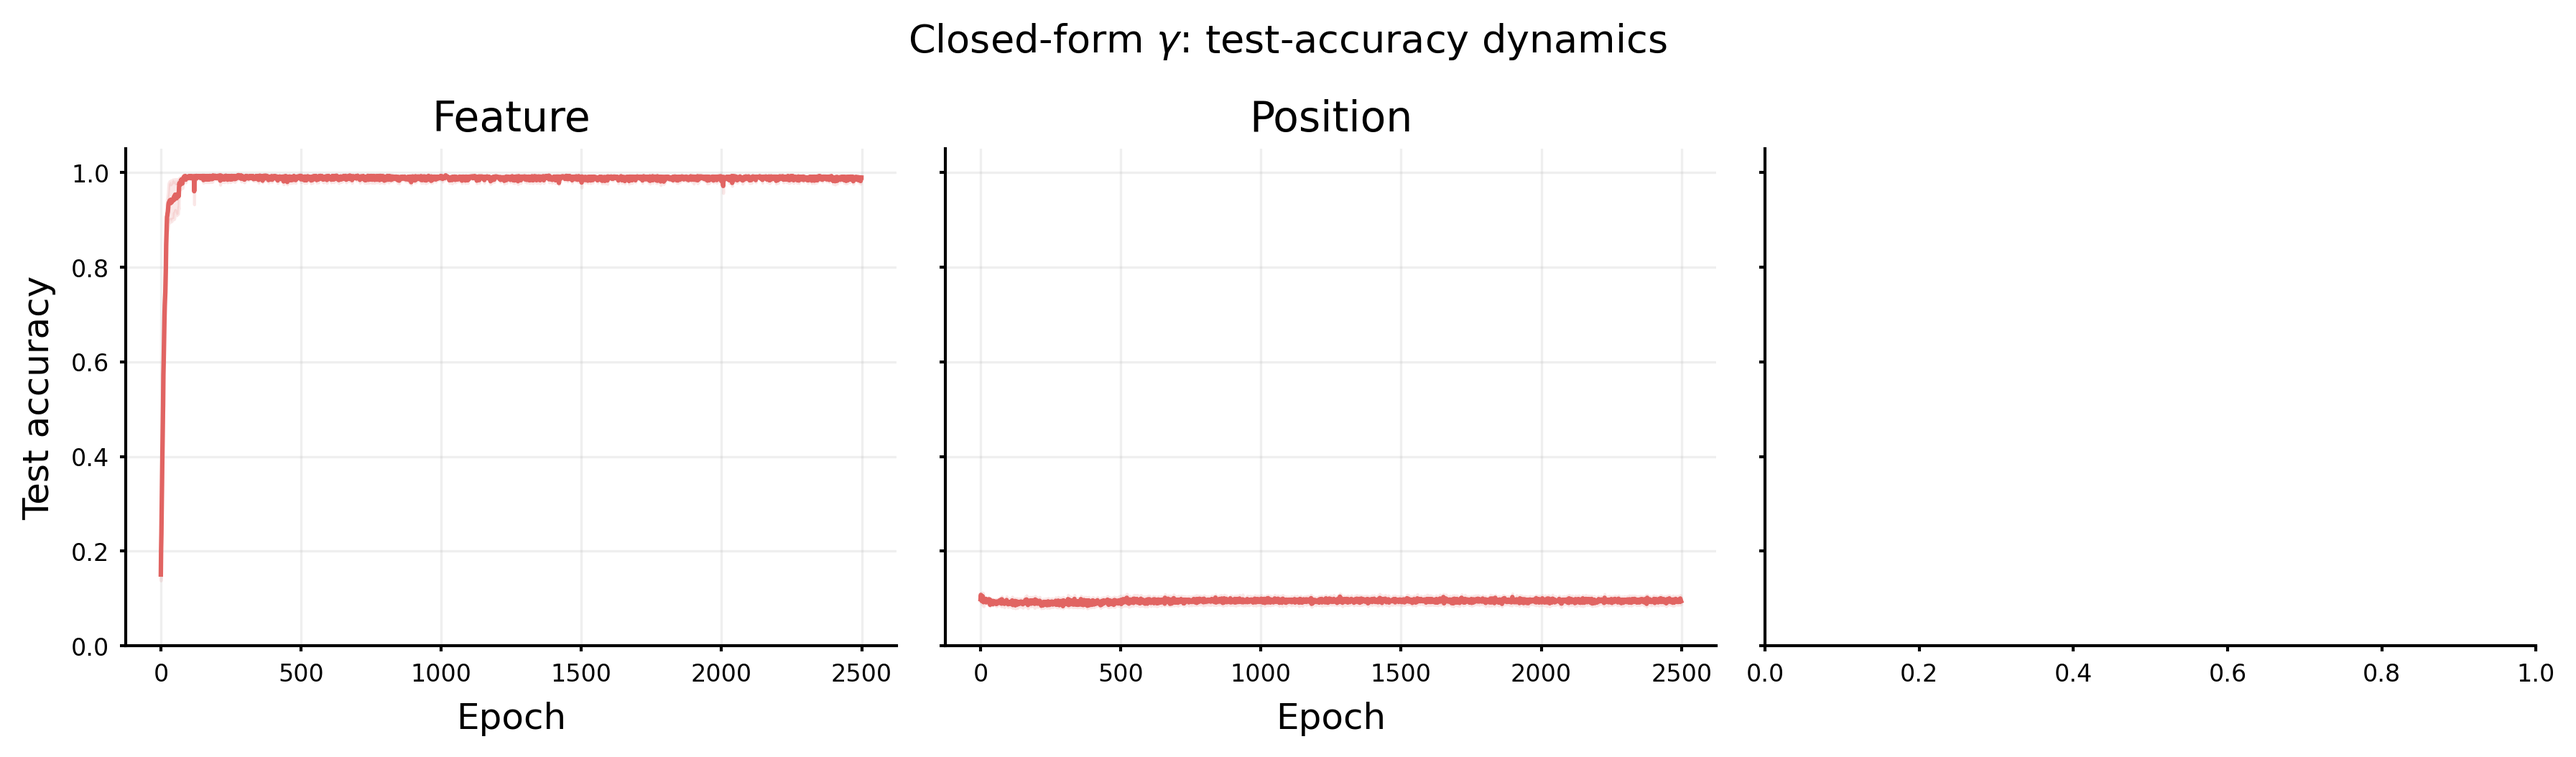
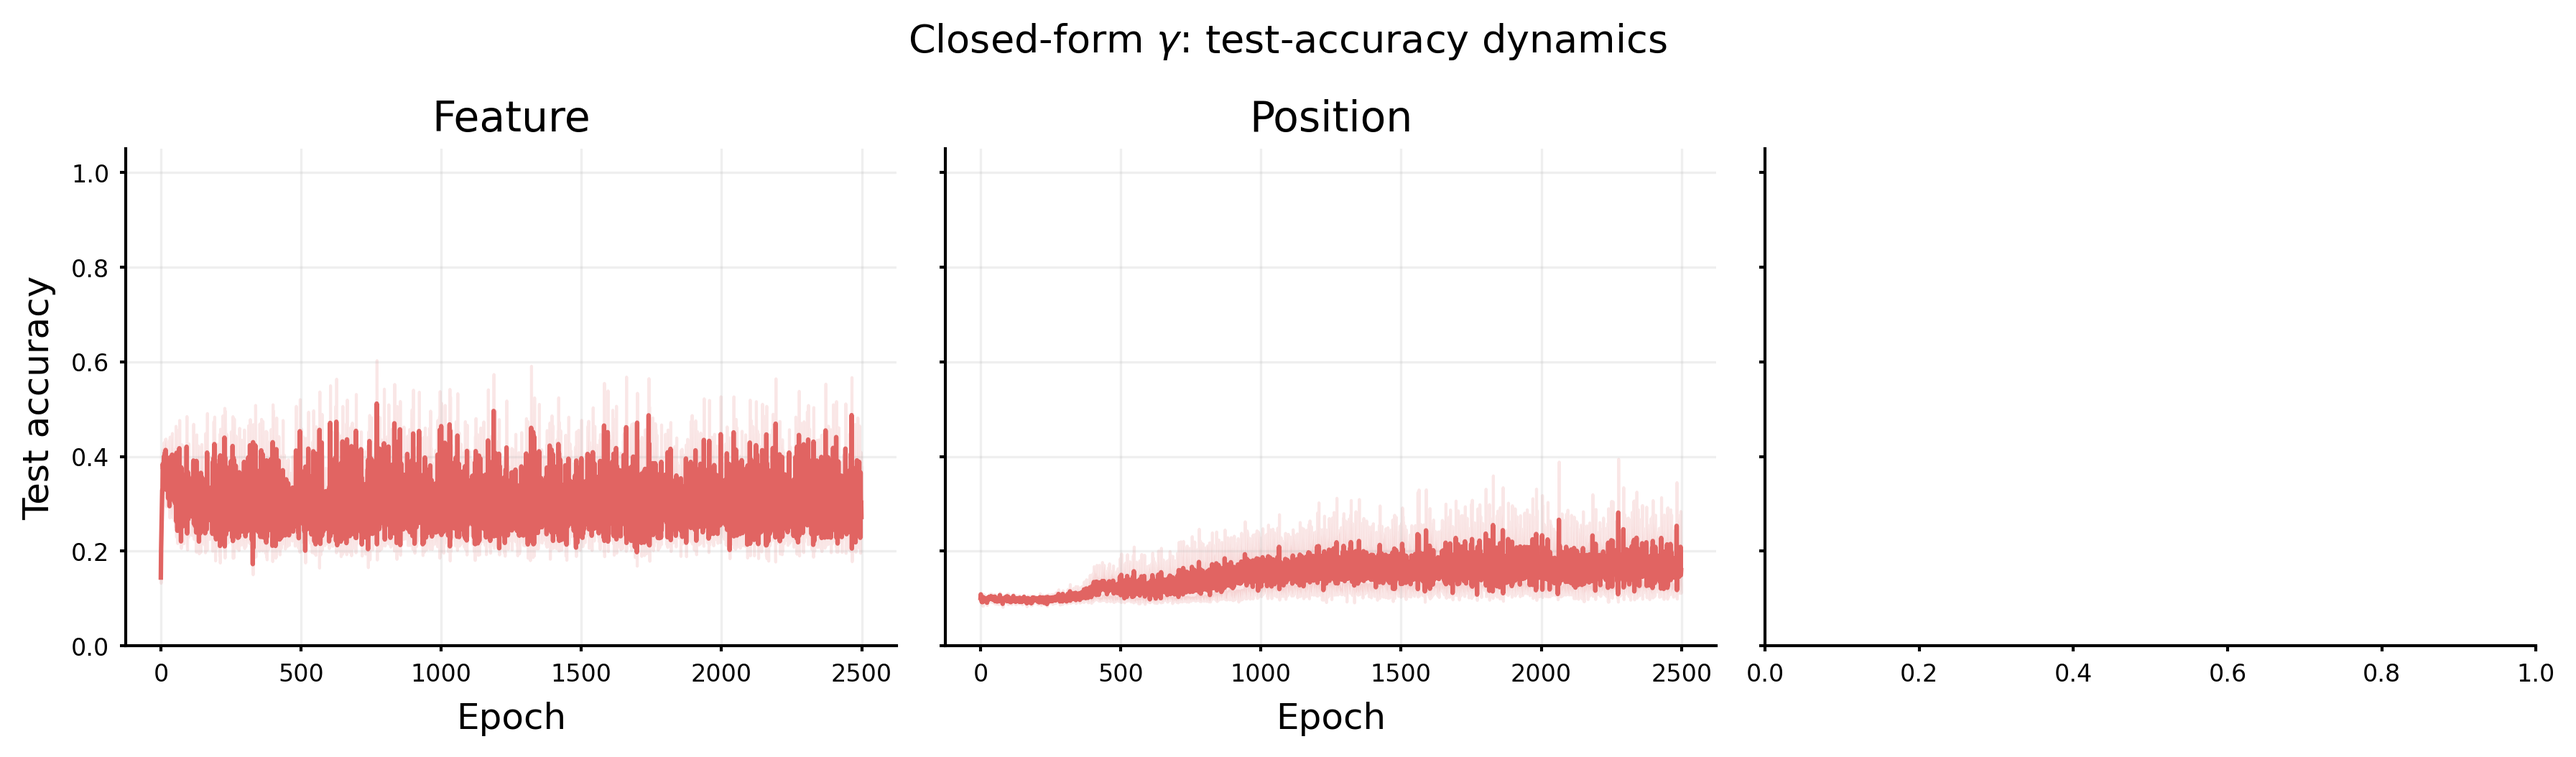
[fix,script] fixed boundary conditions

Changed region(s): [[0.0625, 0.5161, 0.3436, 0.7287], [0.3748, 0.6679, 0.6559, 0.8197], [0.0625, 0.2125, 0.3436, 0.3036]]

diff --git a/scripts/context_identification/lagrange_gamma_sweep.py b/scripts/context_identification/lagrange_gamma_sweep.py
@@ -28,10 +28,10 @@ The constrained optimal gamma is (document eq.):
     γ* = 0                                    if Q(0)² ≥ Q(1)²
     γ* = 1                                    otherwise
 
-Since α₀, α₁, ρ₀, ρ₁ are pytrees (same shape as W), we reduce them to
-scalars by projecting onto α₀: e.g. scalar_α₁ = ⟨α₁_vec, α₀_vec⟩.
-This recovers the document's 1-D formula while being well-defined for
-arbitrary parameter dimensions.
+Since α₀, α₁, ρ₀, ρ₁ are pytrees (same shape as W), the interior
+formula is evaluated by projecting onto α₀: e.g. scalar_α₁ = ⟨α₁_vec, α₀_vec⟩.
+The boundary condition compares actual gradient norms ‖Q(0)_vec‖² vs
+‖Q(1)_vec‖² to avoid the directional bias of projecting boundary terms.
 
 The gradient at optimal γ follows analytically (no extra forward pass):
 
@@ -98,14 +98,15 @@ def _pytree_lc(pairs):
 # Lagrangian optimal gamma
 # ============================================================
 
-def _optimal_gamma_lagrange(alpha_0, alpha_1, rho_0, rho_1):
+def _optimal_gamma_lagrange(alpha_0, alpha_1, rho_0, rho_1, norm_sq_Q1):
     """Document's closed-form γ* from scalar projections.
 
     Args:
-        alpha_0: ⟨α₀_vec, α₀_vec⟩ = ‖α₀_vec‖²   (always ≥ 0)
-        alpha_1: ⟨α₁_vec, α₀_vec⟩
-        rho_0:   ⟨ρ₀_vec, α₀_vec⟩
-        rho_1:   ⟨ρ₁_vec, α₀_vec⟩
+        alpha_0:    ⟨α₀_vec, α₀_vec⟩ = ‖α₀_vec‖² = ‖Q(0)_vec‖²  (always ≥ 0)
+        alpha_1:    ⟨α₁_vec, α₀_vec⟩
+        rho_0:      ⟨ρ₀_vec, α₀_vec⟩
+        rho_1:      ⟨ρ₁_vec, α₀_vec⟩
+        norm_sq_Q1: ‖(ρ₀_vec - ρ₁_vec)‖² = ‖Q(1)_vec‖²
 
     Returns:
         γ* ∈ [0,1] (JAX scalar)
@@ -123,8 +124,11 @@ def _optimal_gamma_lagrange(alpha_0, alpha_1, rho_0, rho_1):
     is_maximum = ((alpha_1 - rho_1) * Q_star < 0)
     in_range = (gamma_star >= 0.0) & (gamma_star <= 1.0)
 
-    # Boundary: γ=0 if Q(0)²=α₀² ≥ Q(1)²=(ρ₀-ρ₁)²
-    gamma_boundary = jnp.where(alpha_0 ** 2 >= (rho_0 - rho_1) ** 2, 0.0, 1.0)
+    # Boundary: compare actual gradient norms ‖Q(0)‖² vs ‖Q(1)‖².
+    # Q(0)_vec = α₀_vec  →  ‖Q(0)‖² = alpha_0
+    # Q(1)_vec = ρ₀_vec - ρ₁_vec  →  ‖Q(1)‖² = norm_sq_Q1
+    # Use γ=0 if the attention gradient is larger; γ=1 if the relational gradient is larger.
+    gamma_boundary = jnp.where(alpha_0 >= norm_sq_Q1, 0.0, 1.0)
 
     return jnp.where(is_maximum & in_range, gamma_star, gamma_boundary)
 
@@ -211,13 +215,17 @@ def make_train_step(optimizer):
         rho_1_vec   = vjp_R_fn(delta_diff * scale)[0]
 
         # --- Step 4: project onto α₀ to get scalars ---
-        alpha_0 = _pytree_dot(alpha_0_vec, alpha_0_vec)  # = ‖α₀_vec‖²
+        alpha_0 = _pytree_dot(alpha_0_vec, alpha_0_vec)  # = ‖α₀_vec‖² = ‖Q(0)‖²
         alpha_1 = _pytree_dot(alpha_1_vec, alpha_0_vec)
         rho_0   = _pytree_dot(rho_0_vec,   alpha_0_vec)
         rho_1   = _pytree_dot(rho_1_vec,   alpha_0_vec)
 
+        # Actual norm of Q(1)_vec = ρ₀_vec - ρ₁_vec for unbiased boundary check
+        rho_01_vec = _pytree_lc([(1.0, rho_0_vec), (-1.0, rho_1_vec)])
+        norm_sq_Q1 = _pytree_dot(rho_01_vec, rho_01_vec)  # = ‖Q(1)‖²
+
         # --- Step 5: document's closed-form γ* ---
-        gamma = _optimal_gamma_lagrange(alpha_0, alpha_1, rho_0, rho_1)
+        gamma = _optimal_gamma_lagrange(alpha_0, alpha_1, rho_0, rho_1, norm_sq_Q1)
 
         # --- Step 6: gradient at γ* analytically ---
         # ∇_W L(γ) = -Q(γ)_vec
